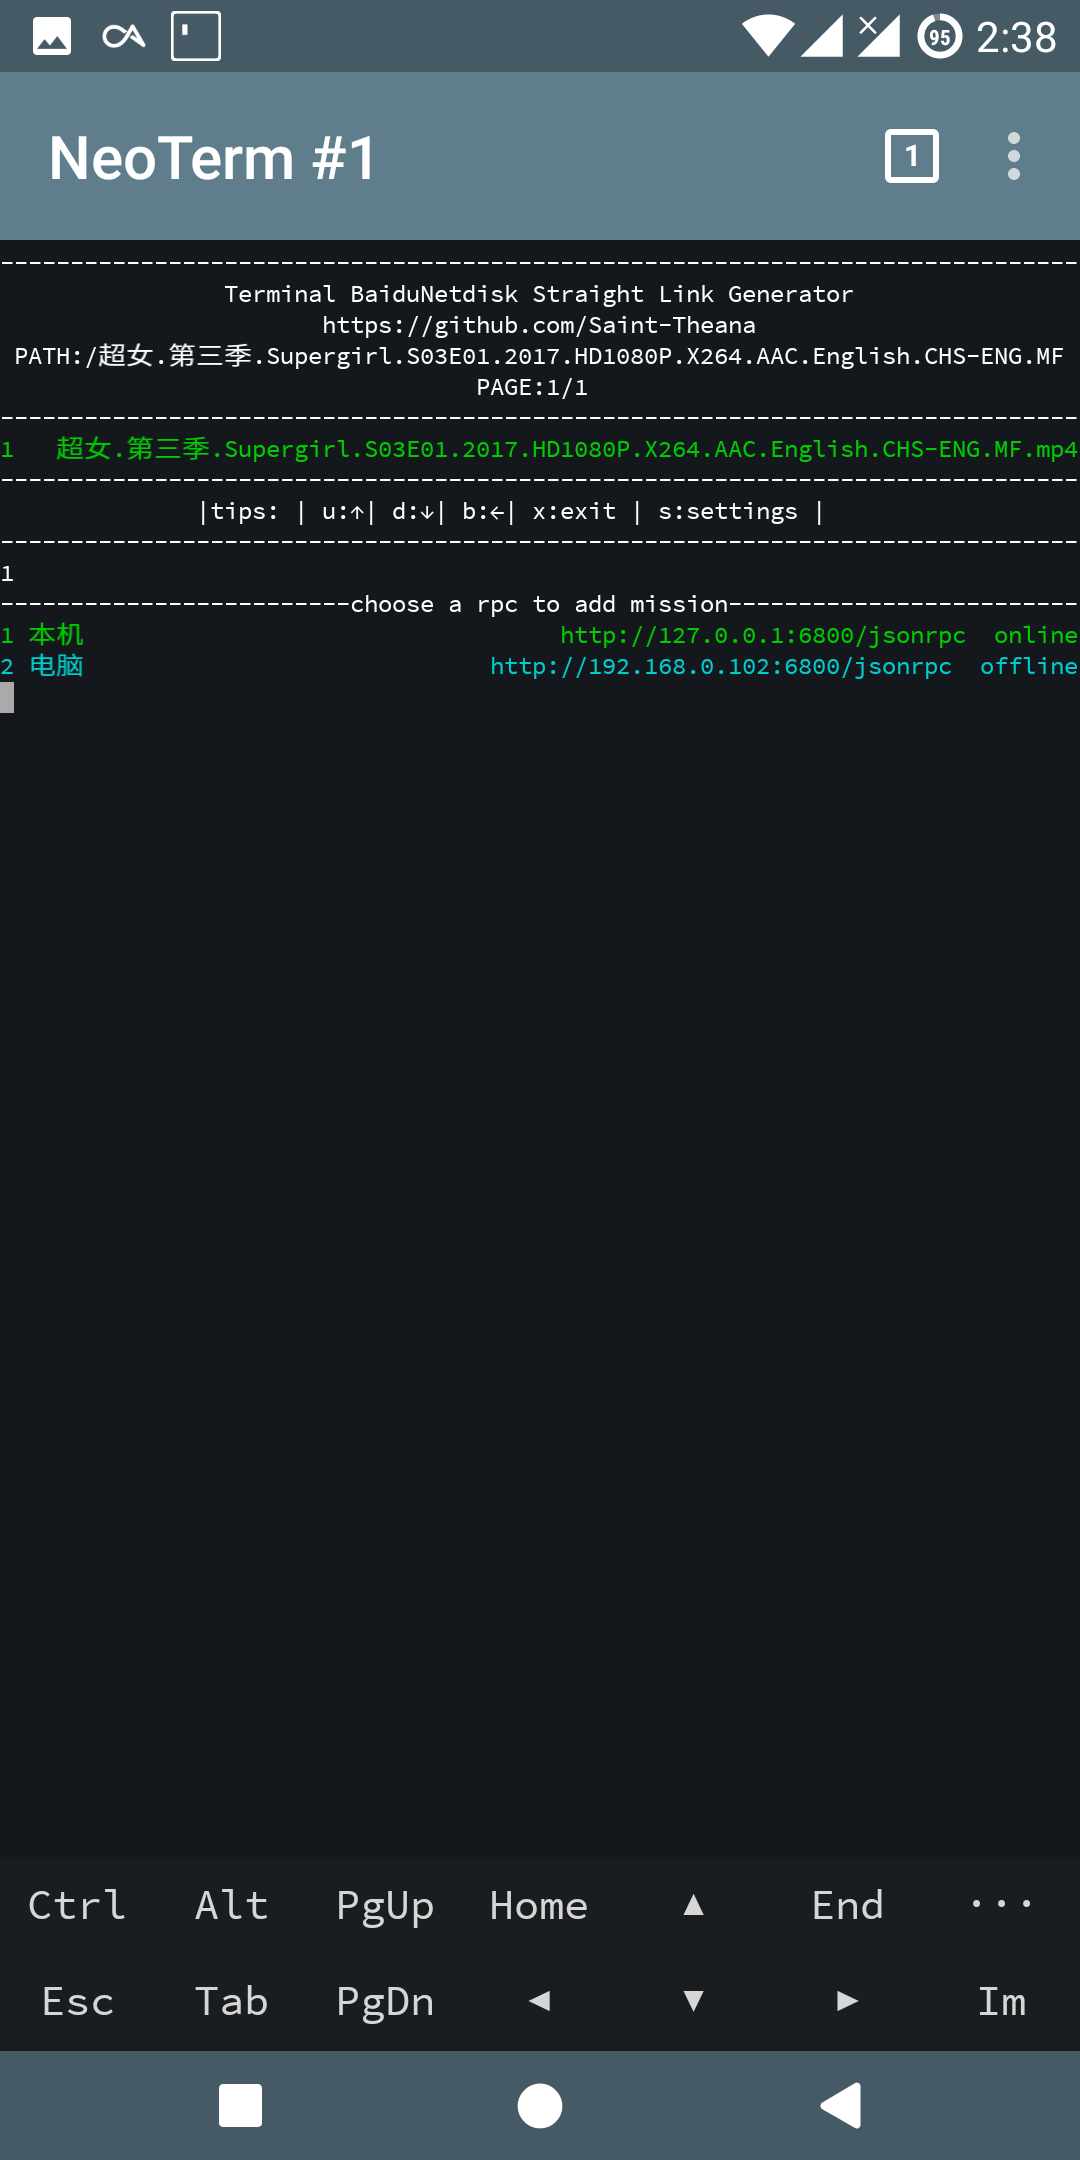
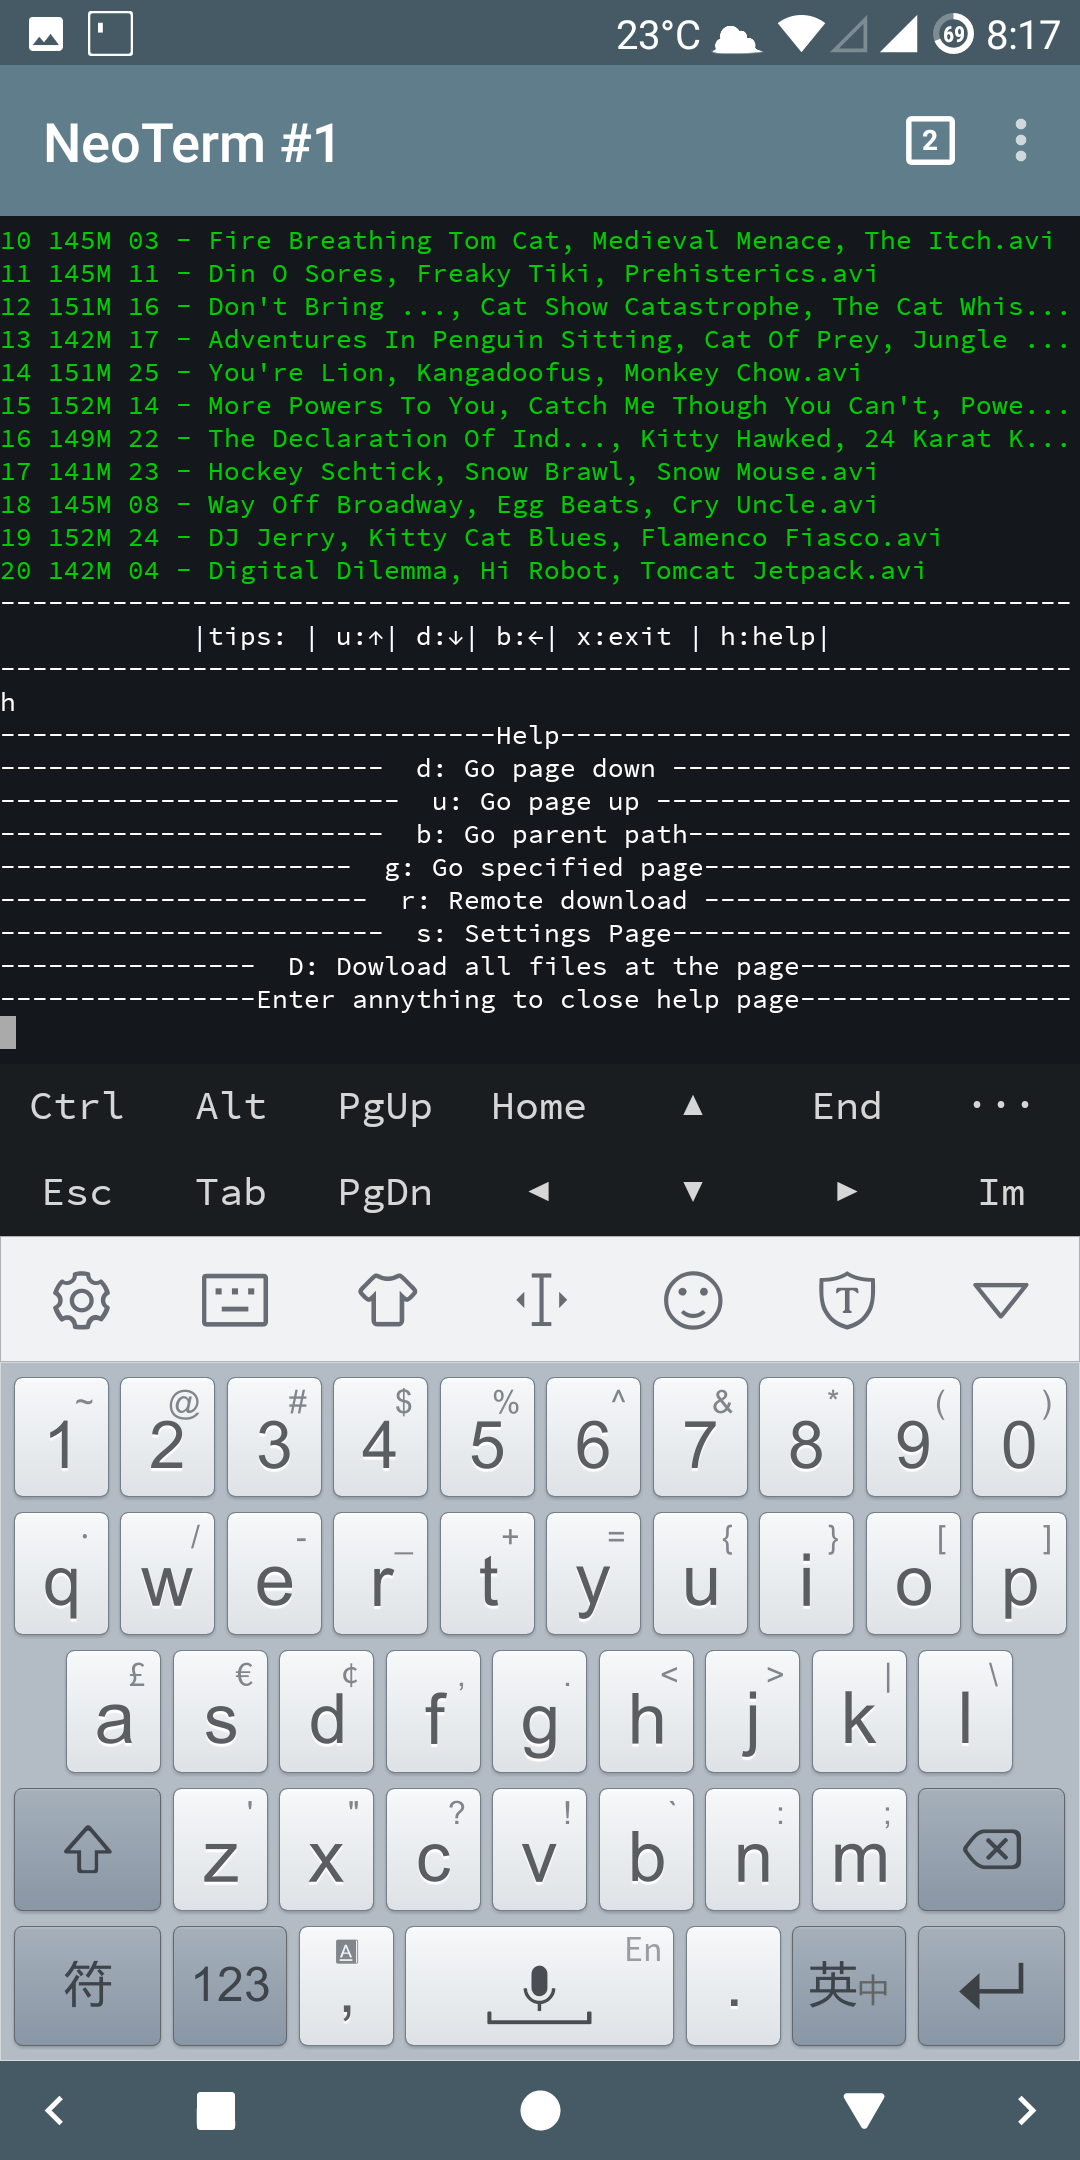
update

diff --git a/README.md b/README.md
@@ -20,10 +20,11 @@
 
 #Aria2的UA需要设置成 netdisk;7.8.1;Red;android-android;4.3
 
+#支持批量下载(当前页面的20个文件)，命令D
+
 ```SHELL
-apt install wget -y
-wget 'https://raw.githubusercontent.com/Saint-Theana/ZoomDisk/master/zoomdisk_2.0_aarch64.deb'
-dpkg -i zoomdisk_2.0_aarch64.deb
+apt install wget -y && wget 'https://raw.githubusercontent.com/Saint-Theana/ZoomDisk/master/zoomdisk_2.1_all.deb'
+dpkg -i zoomdisk_2.1_all.deb
 apt -f install -y
 netdisk
 ```
@@ -32,3 +33,5 @@ netdisk
 ![image](https://github.com/Saint-Theana/ZoomDisk/raw/master/image/2.png)
 
 ![image](https://github.com/Saint-Theana/ZoomDisk/raw/master/image/3.png)
+
+![image](https://github.com/Saint-Theana/ZoomDisk/raw/master/image/4.png)
